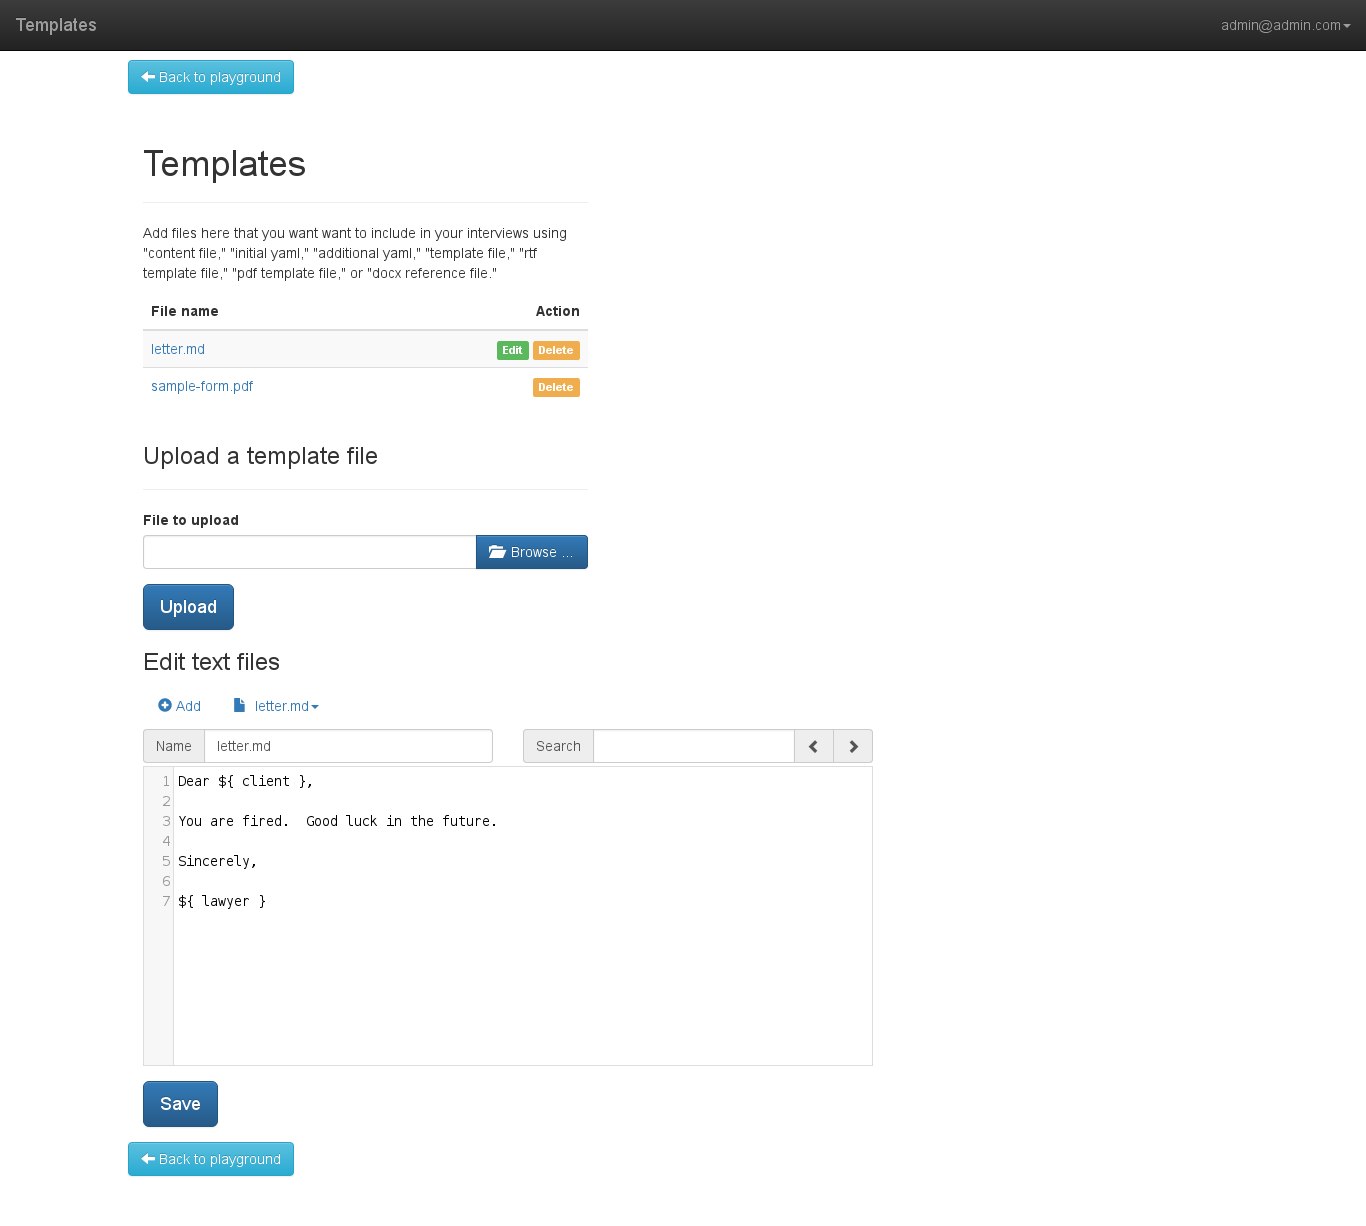
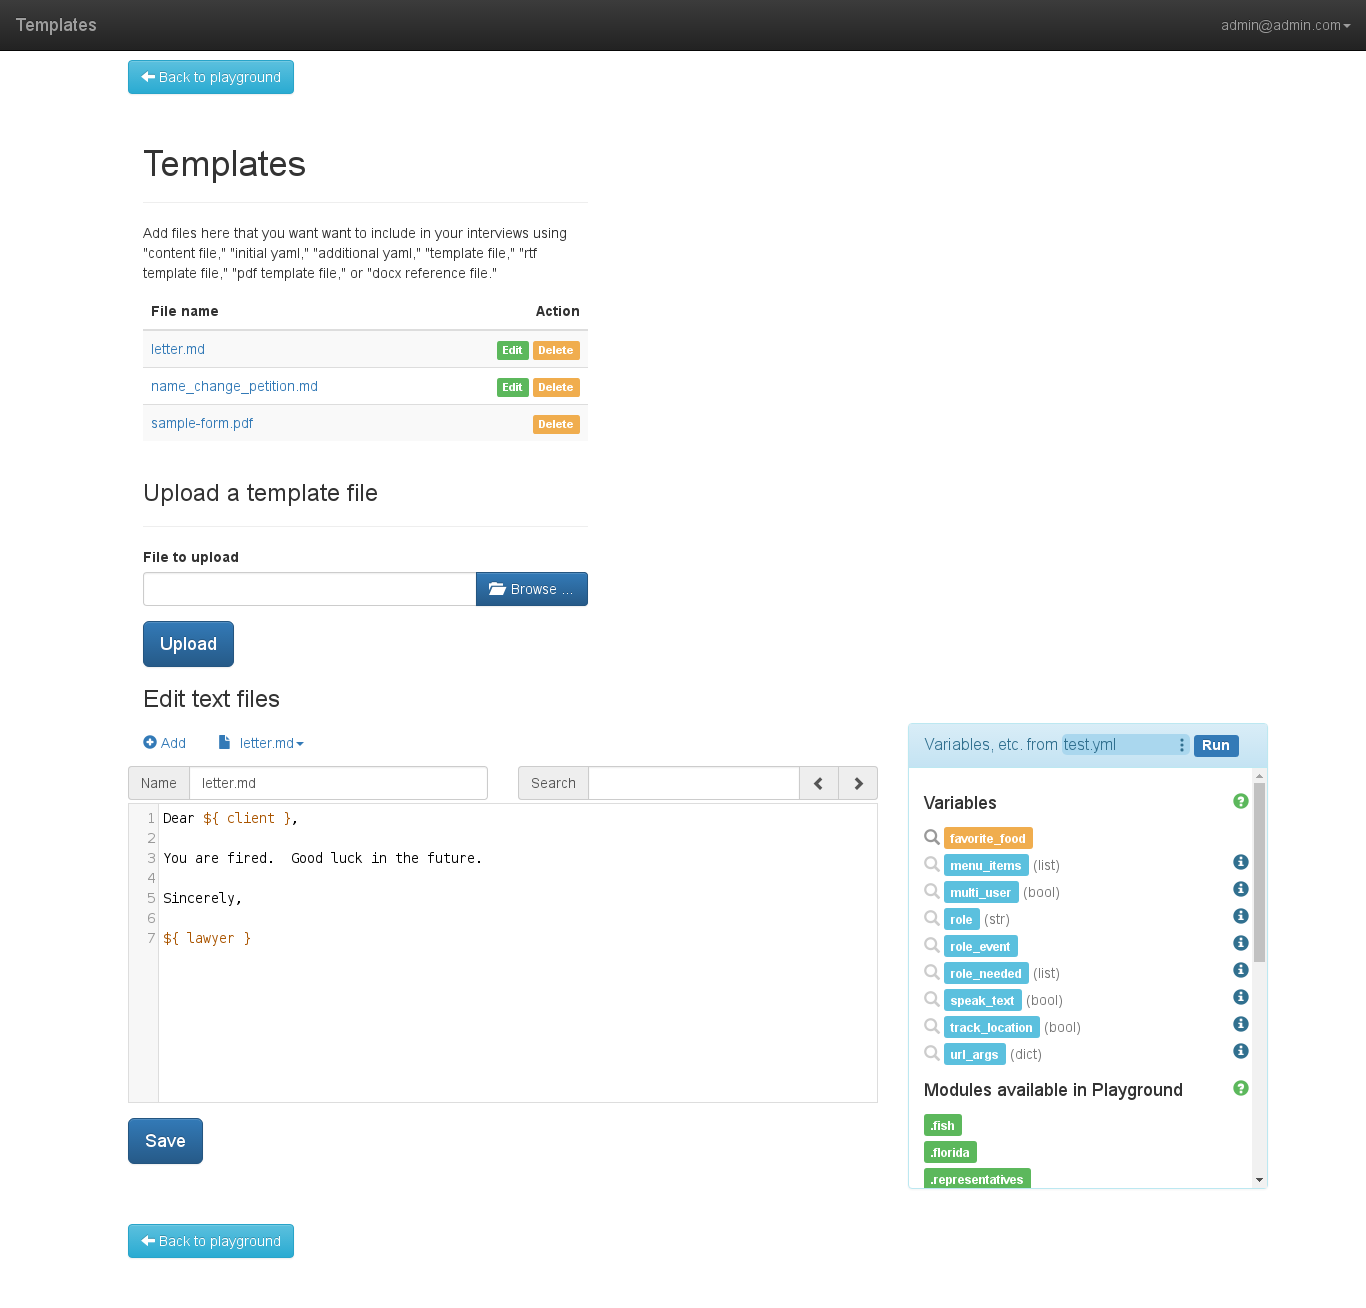
playground files ajax save

diff --git a/_sass/_base.scss b/_sass/_base.scss
@@ -314,7 +314,12 @@ div.vert-scroll {
     max-height: 500px;
     overflow-y: scroll;
     display: inline-block;
+    max-width: 100%;
     border-radius: 4px;
+}
+
+div.vert-scroll img {
+    max-width: 100%;
 }
 
 table.gsc-table-result td {

diff --git a/_docs/template.md b/_docs/template.md
@@ -204,14 +204,19 @@ Note that the `table` block acts like a `template` block in that the
 variable it sets will be a [`DATemplate`] object.  The `.content`
 attribute will be set to the text of the table in [Markdown] format.
 
-If the variable indicated by `rows` is empty, the table will not
-display at all.  (The `.content` will be the empty string, `""`.)
-
-However, if you would like the table to display with headers only when
-the number of rows is zero, you can add `show if empty: True` to the
-`table` block.
+If the variable indicated by `rows` is empty, the table will display
+with only the headers.  To suppress this, you can add `show if empty:
+False` to the `table` block.  The `.content` will be the empty
+string, `""`.
 
 {% include side-by-side.html demo="table-empty" %}
+
+If you would like a message to display in place of the table in the
+event that there are no `rows` to display, you can set `show if empty`
+to this message.  [Mako] and [Markdown] can be used.  The message will
+become the `.content` of the resulting [`DATemplate`].
+
+{% include side-by-side.html demo="table-empty-message" %}
 
 [expression]: http://stackoverflow.com/questions/4782590/what-is-an-expression-in-python
 [`fields`]: {{ site.baseurl }}/docs/fields.html#fields

diff --git a/_docs/playground.md b/_docs/playground.md
@@ -100,12 +100,16 @@ are stored in the "Templates" folder.  For more information about the
 different types of template files that can be provided as options to
 the [`attachments`] directive, see [documents].
 
-For example, you can write Markdown text in a separate text file
+For example, you can write [Markdown] text in a separate text file
 called `small_claims_complaint.md` in the Templates folder and then
 incorporate that text by reference by including the line `content
 file: small_claims_complaint.md` within an [`attachments`] directive.
 
 {% include scroll-image.html image="playground-templates-page-clipped.png" %}
+
+When you edit a [Markdown] file in the Templates folder, the
+"Variables, etc." sidebar is shown, so that you can have access to the
+list of variables in any of your interview files.
 
 In the Templates folder, you can upload files.  Markdown and YAML
 files can be edited.  From the Templates screen, you can convert
